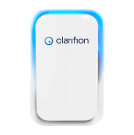
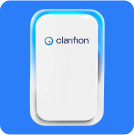
thumbnail + detail

diff --git a/clarifion/src/styles.scss b/clarifion/src/styles.scss
@@ -196,7 +196,7 @@ $big-screen: 768px;
 
   item-detail {
     @apply md:w-[80vw] flex flex-col md:flex-row m-auto md:bg-clarifion-light-gray
-      rounded-[10px] md:p-[40px] items-start content-start gap-[40px] ;
+      rounded-[10px] md:p-[40px] items-center content-center gap-[40px] ;
   }
 
   item-title {
@@ -208,8 +208,17 @@ $big-screen: 768px;
     @apply w-[320px] md:w-[575px] h-auto m-auto md:content-start;
   }
 
+  clarifion-thumbnail {
+    @apply w-[80px] md:w-[134px] h-auto
+  }
+
+  clarifion-main-info {
+    @apply w-[320px] md:w-[575px] md:content-start text-[12px] md:text-base;
+    p { @apply text-[12px] md:text-base text-center md:text-start }
+  }
+
   item-description {
-    @apply w-[320px] md:w-[575px] md:content-start
+    @apply w-[320px] md:w-[575px] md:content-start text-[12px] md:text-base
   }
 
   clarifion-perks-list {

diff --git a/clarifion/src/app/views/item-detail/item-description/detail/detail.component.html b/clarifion/src/app/views/item-detail/item-description/detail/detail.component.html
@@ -1,1 +1,1 @@
-<p>detail works!</p>
+<p>Simply plug a Clarifion into any standard outlet and replace bulky, expensive air purifiers with a simple.</p>

diff --git a/clarifion/src/app/views/item-detail/item-description/thumbnail/thumbnail.component.html b/clarifion/src/app/views/item-detail/item-description/thumbnail/thumbnail.component.html
@@ -1,1 +1,1 @@
-<p>thumbnail works!</p>
+<img src="assets/images/item-miniature.png" alt="Item thumbnail">
